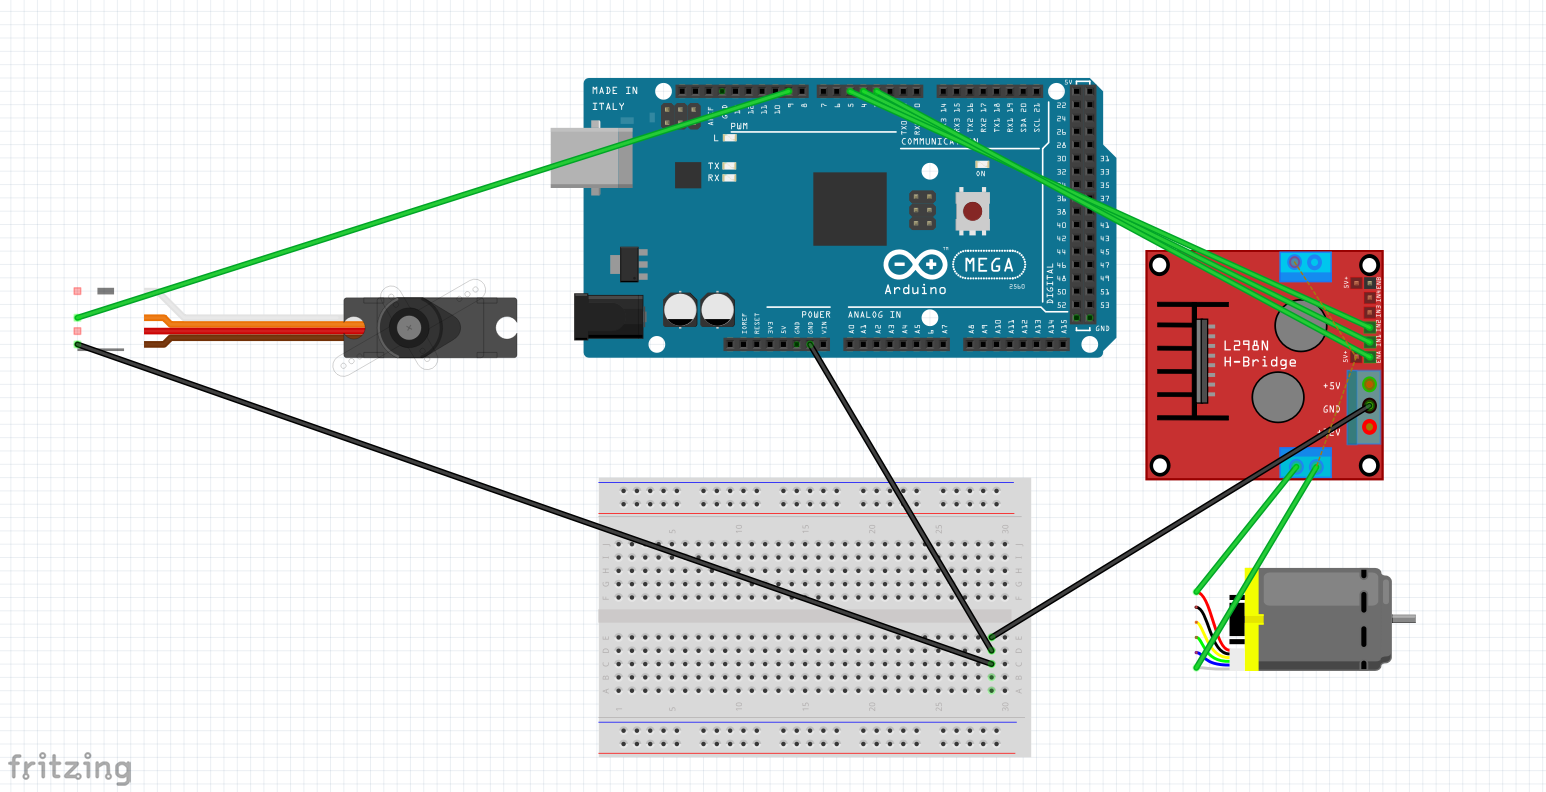
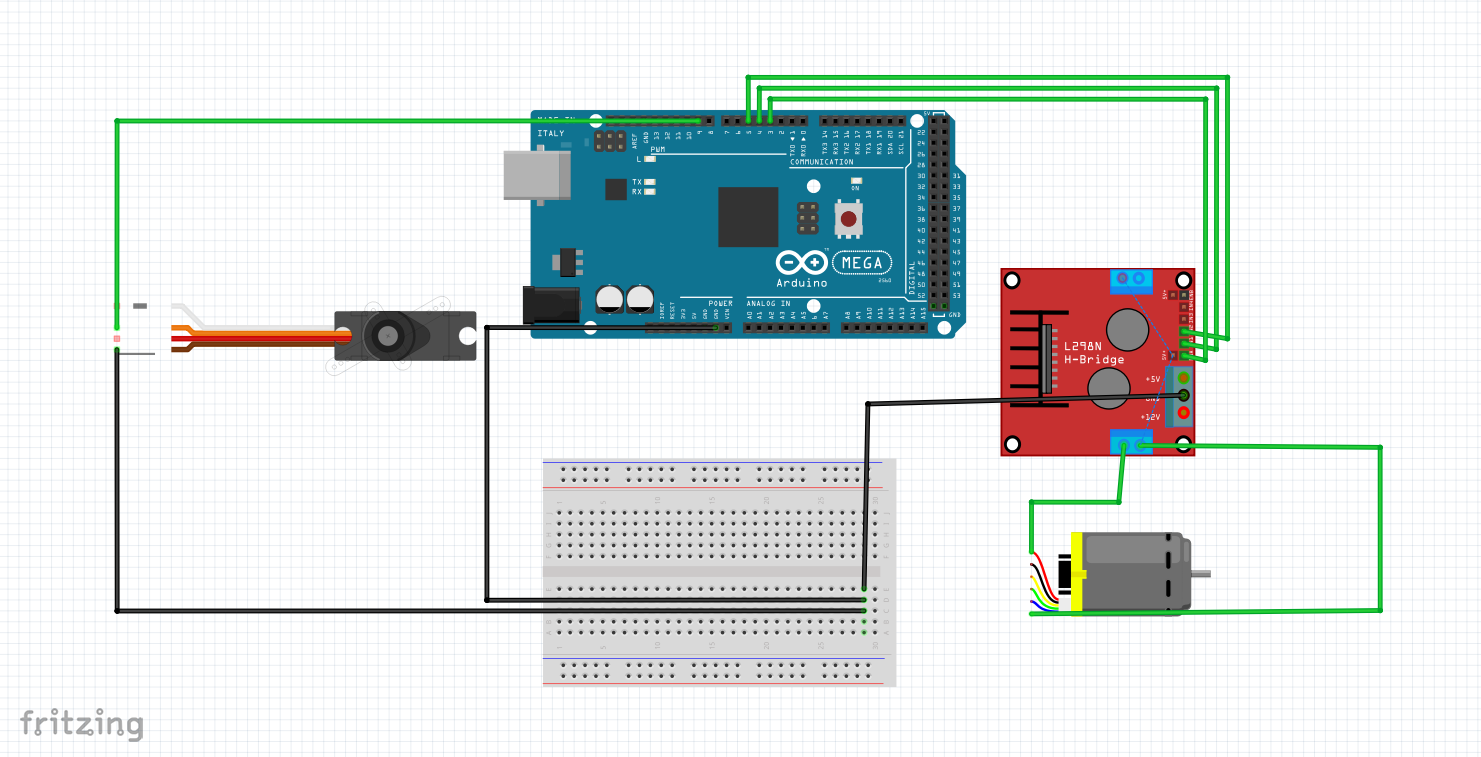
Update

diff --git a/src/full_code.cpp b/src/full_code.cpp
@@ -1,0 +1,62 @@
+#include <Servo.h>
+#include <Arduino.h>
+
+// Motor driver pins
+const int ENA = 3;     // PWM for motor speed
+const int IN1 = 4;     // Motor direction
+const int IN2 = 5;
+
+// Servo pin
+const int servoPin = 6;
+Servo steeringServo;
+
+int servoAngle = 90;   // Initial angle (center)
+unsigned long lastTurnTime = 0;
+int turnState = 0;
+
+void setup() {
+  // Set motor control pins as outputs
+  pinMode(ENA, OUTPUT);
+  pinMode(IN1, OUTPUT);
+  pinMode(IN2, OUTPUT);
+
+  // Move motor forward
+  digitalWrite(IN1, LOW);
+  digitalWrite(IN2, HIGH);
+  analogWrite(ENA, 120);  // Speed: range 0-255
+
+  // Setup servo
+  steeringServo.attach(servoPin);
+  steeringServo.write(servoAngle); // Center position
+
+  Serial.begin(9600);
+  Serial.println("Robot started.");
+}
+
+void loop() {
+  unsigned long currentMillis = millis();
+
+  // Change servo direction every 5 seconds
+  if (currentMillis - lastTurnTime >= 5000) {
+    lastTurnTime = currentMillis;
+
+    if (turnState == 0) {
+      servoAngle = 70;    // Turn left
+      Serial.println("Turning Left");
+    } else if (turnState == 1) {
+      servoAngle = 90;    // Center
+      Serial.println("Centering");
+    } else {
+      servoAngle = 110;   // Turn right
+      Serial.println("Turning Right");
+    }
+
+    steeringServo.write(servoAngle);
+    turnState = (turnState + 1) % 3;
+
+    Serial.print("Turn state: ");
+    Serial.println(turnState);
+  }
+
+  // The motor continues to move forward constantly
+}
